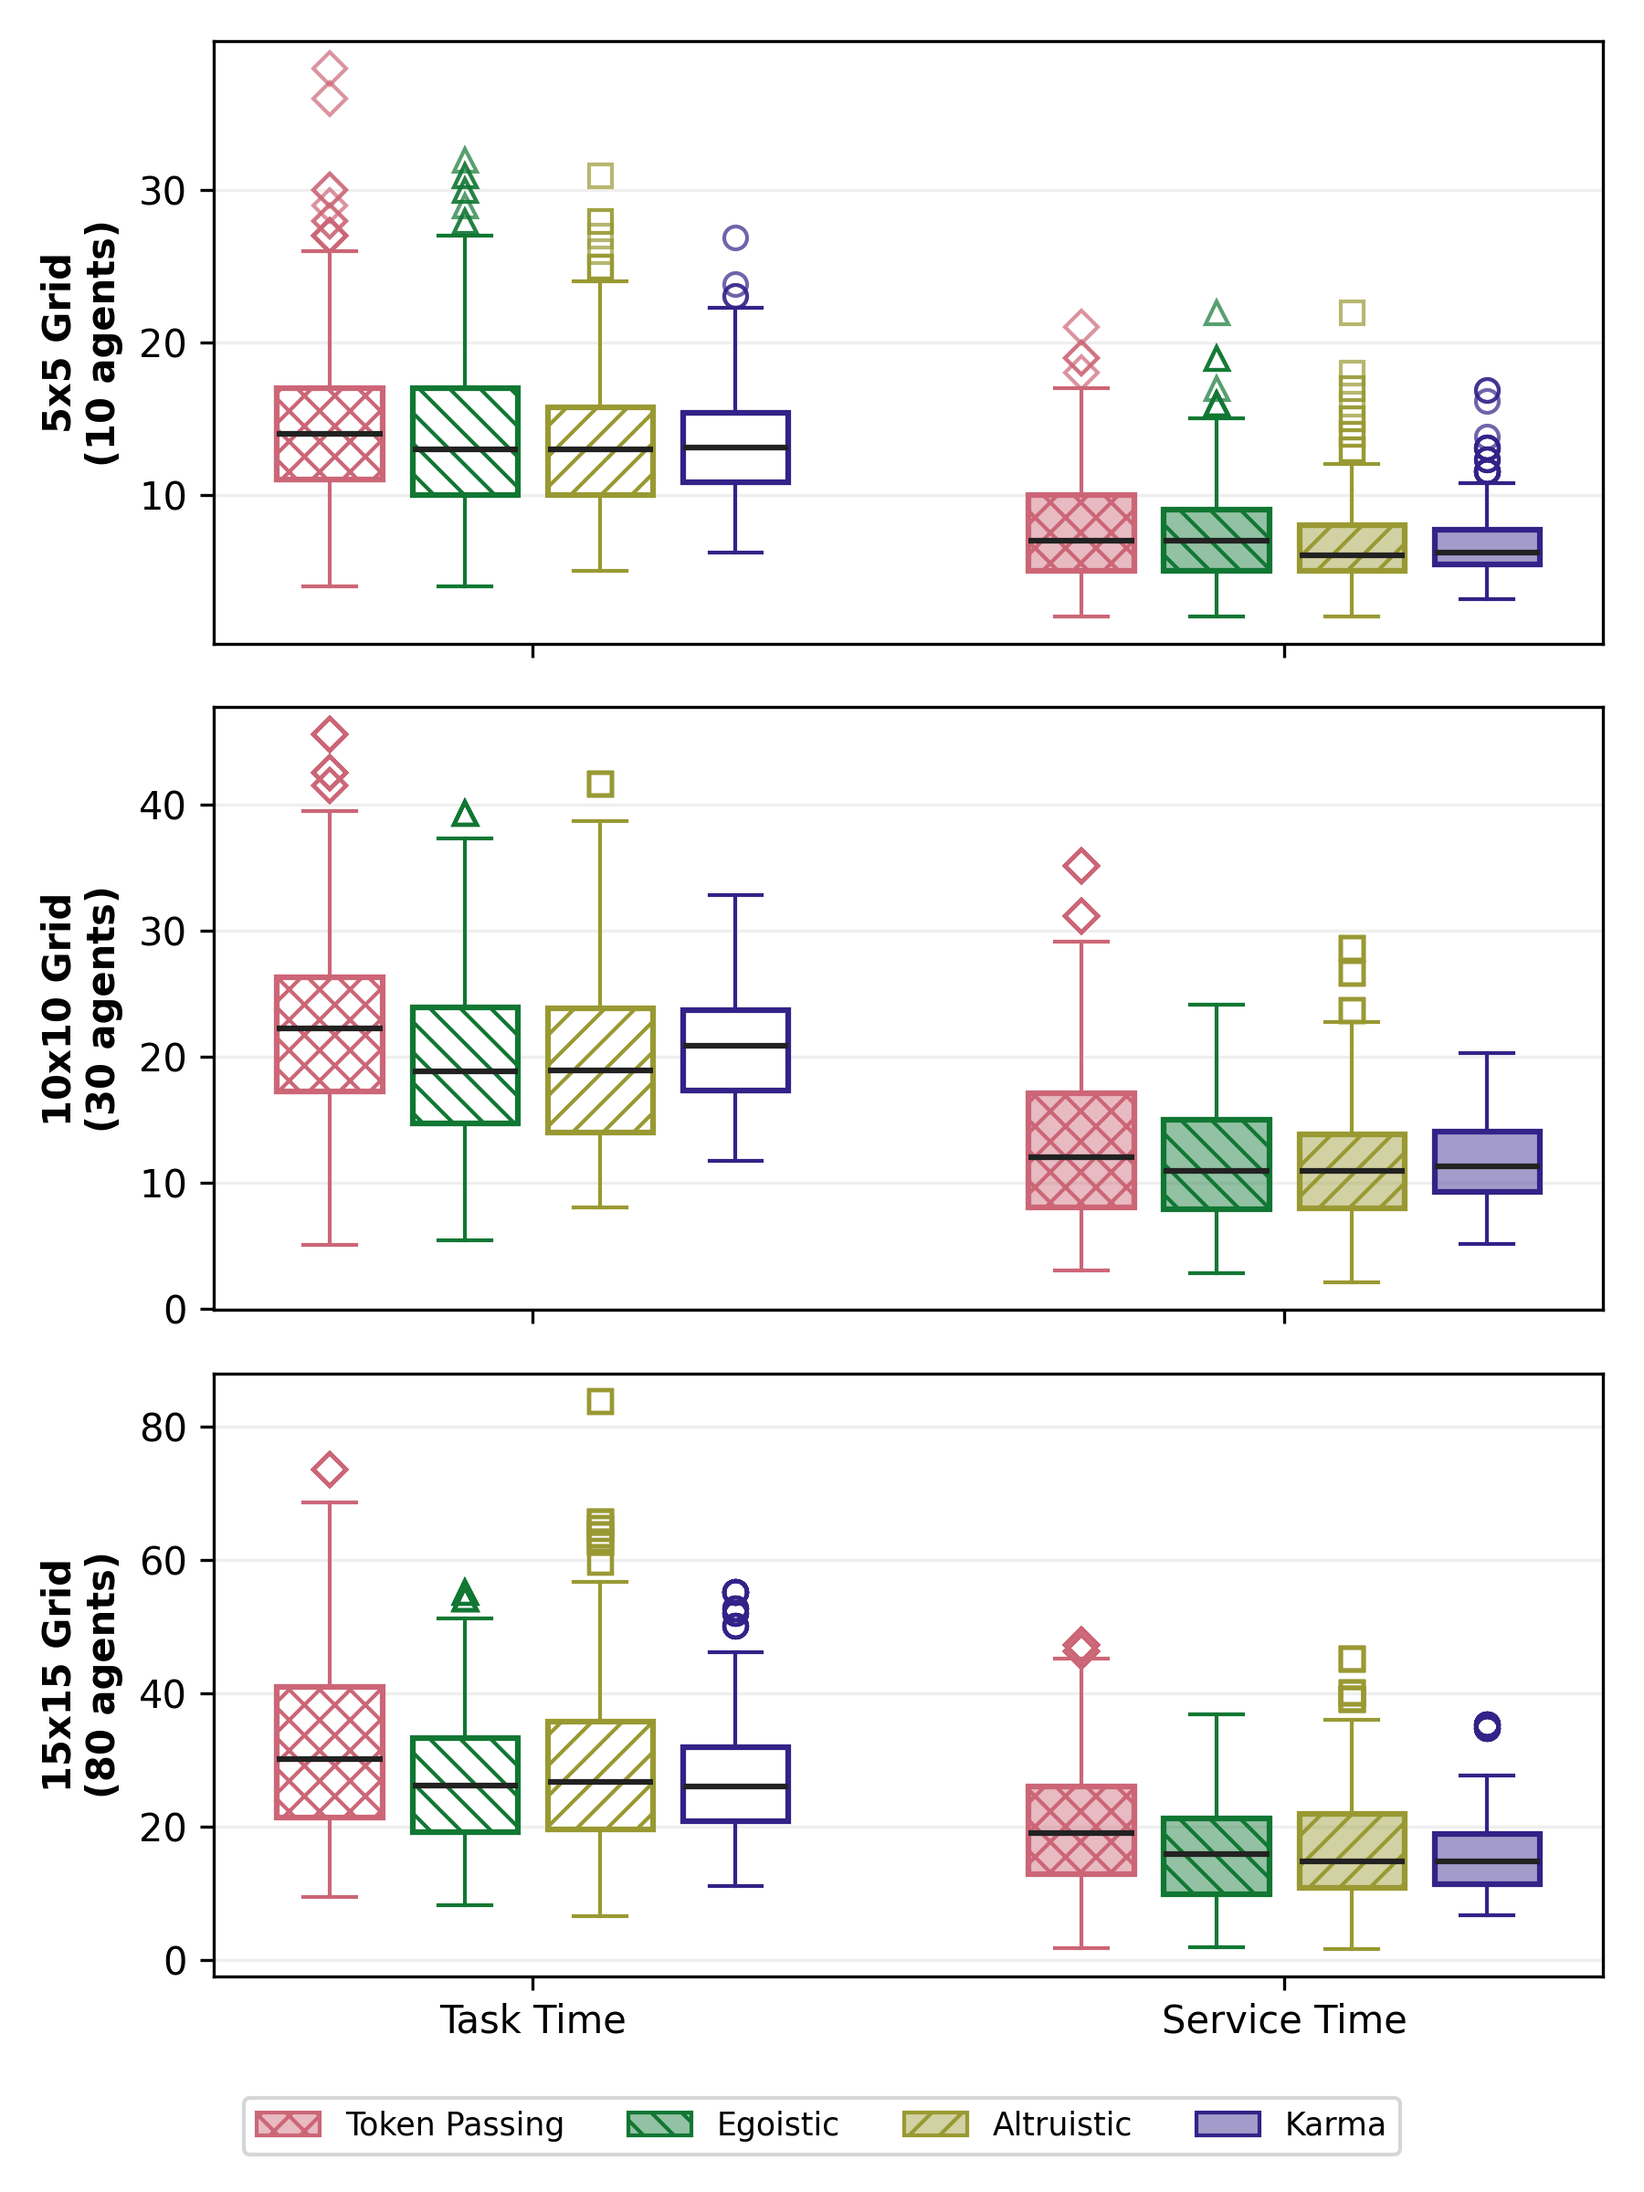
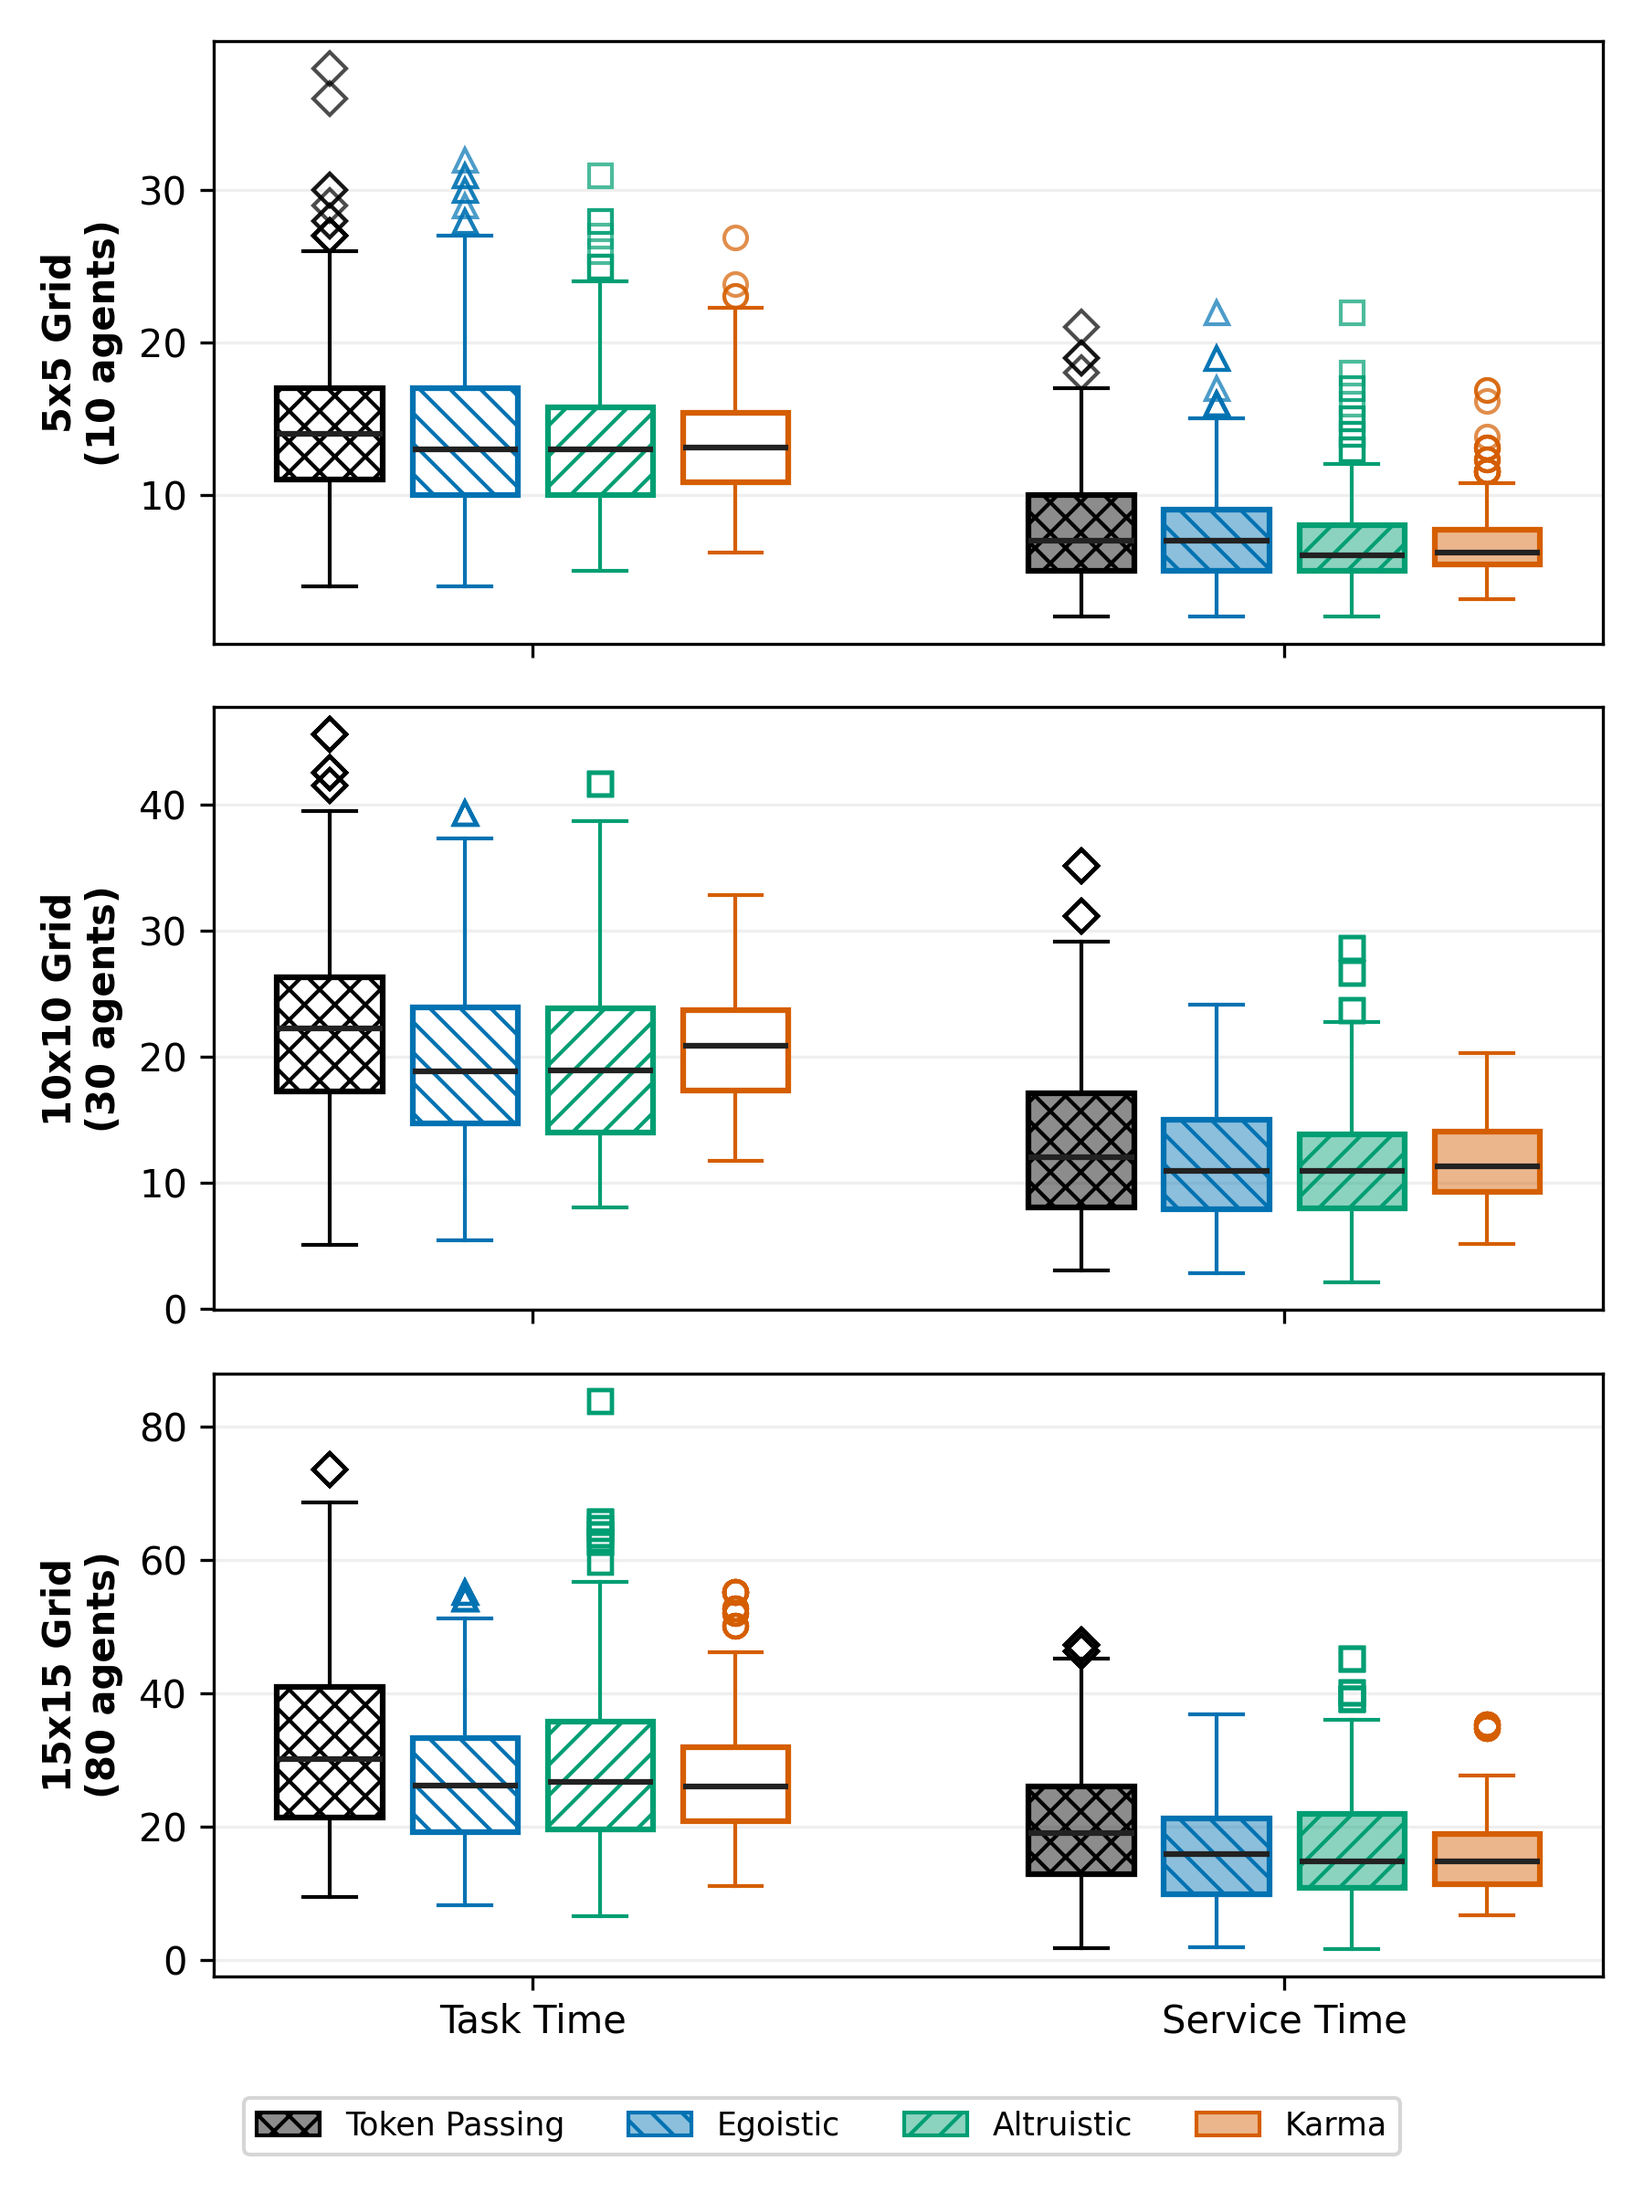
chore: update color choices

diff --git a/figures/paper_style.py b/figures/paper_style.py
@@ -1,16 +1,15 @@
 """Shared controller styles for the paper figures.
 
-The colours are Paul Tol's muted scheme, which stays distinguishable under deuteranopia,
+The colours are from the Okabe-Ito scheme, which stays distinguishable under deuteranopia,
 protanopia and tritanopia. Four colours cannot all differ in grey tone, so every controller also
-has its own marker and hatch for greyscale prints. Karma gets the darkest colour; Karma and
-Altruistic, the pair compared most, are furthest apart in lightness.
+has its own marker and hatch for greyscale prints. Karma gets the orange so it stands out.
 """
 
 CONTROLLER_COLORS = {
-    "DECENTRALIZED_TOKEN_PASSING": "#CC6677",
-    "DECENTRALIZED_NEGOTIATE_EGOISTIC": "#117733",
-    "DECENTRALIZED_NEGOTIATE_ALTRUISTIC": "#999933",
-    "DECENTRALIZED_NEGOTIATE_TRIP_KARMA": "#332288",
+    "DECENTRALIZED_TOKEN_PASSING": "#000000",
+    "DECENTRALIZED_NEGOTIATE_EGOISTIC": "#0072B2",
+    "DECENTRALIZED_NEGOTIATE_ALTRUISTIC": "#009E73",
+    "DECENTRALIZED_NEGOTIATE_TRIP_KARMA": "#D55E00",
 }
 
 CONTROLLER_MARKERS = {

diff --git a/.serena/memories/simulation/negotiation.md b/.serena/memories/simulation/negotiation.md
@@ -12,10 +12,13 @@
 | `DECENTRALIZED_NEGOTIATE_EGOISTIC2` / `ALTRUISTIC2` | – | egoistic/altruistic on the relative-deviation cost transform | no (ALTRUISTIC2 only in analysis_2 logs + legacy sweep) |
 | `CENTRALIZED` | CBS (§II-B only) | `Planner_CBS` (`mem:simulation/core`) | no |
 
-The figures use a fixed label and style for each paper controller. Colours (Paul Tol muted) plus
-marker / hatch live in `figures/paper_style.py`: Token Passing rose `#CC6677` `D` `xxx`, Egoistic
-green `#117733` `^` `\\\`, Altruistic olive `#999933` `s` `///`, Karma indigo `#332288` `o` no
-hatch (darkest). All lines stay solid (a deliberate choice: mixed dash patterns looked
+The figures use a fixed label and style for each paper controller. Colours (Okabe-Ito) plus
+marker / hatch live in `figures/paper_style.py`: Token Passing black `#000000` `D` `xxx`, Egoistic
+blue `#0072B2` `^` `\\\`, Altruistic green `#009E73` `s` `///`, Karma orange `#D55E00` `o` no
+hatch. Karma is orange on purpose, so it is the most visible series; the authors chose this over
+alternatives (Tol muted, Tol high-contrast) compared side by side. Trade-off they accepted: in
+greyscale, Token Passing (black) is the darkest series, and Karma and Altruistic are similar
+mid-greys that only their markers (circle vs square) separate. All lines stay solid (a deliberate choice: mixed dash patterns looked
 inconsistent). The set is colour-blind safe (AAMAS rule), and the markers and hatches keep it
 readable in greyscale. Keep them identical across `figures/`. The
 old name `DECENTRALIZED_RESPECT` (still in some archived run files) is token passing.
